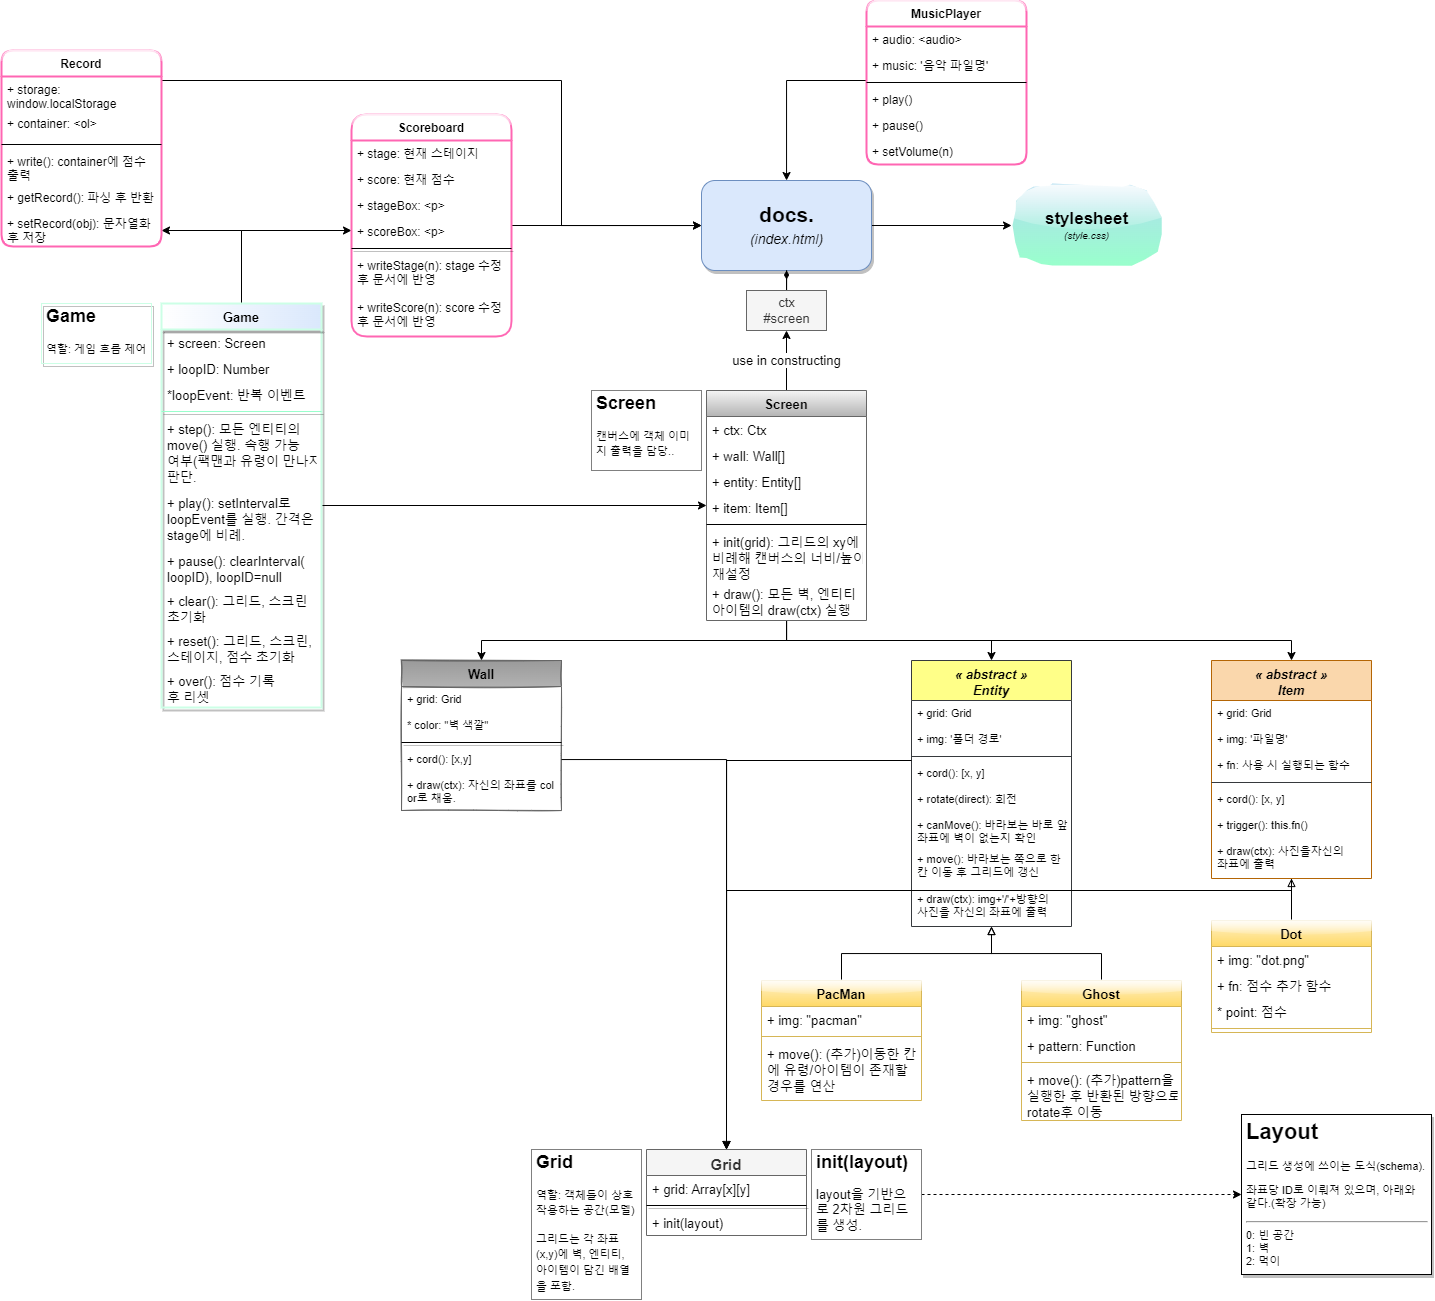
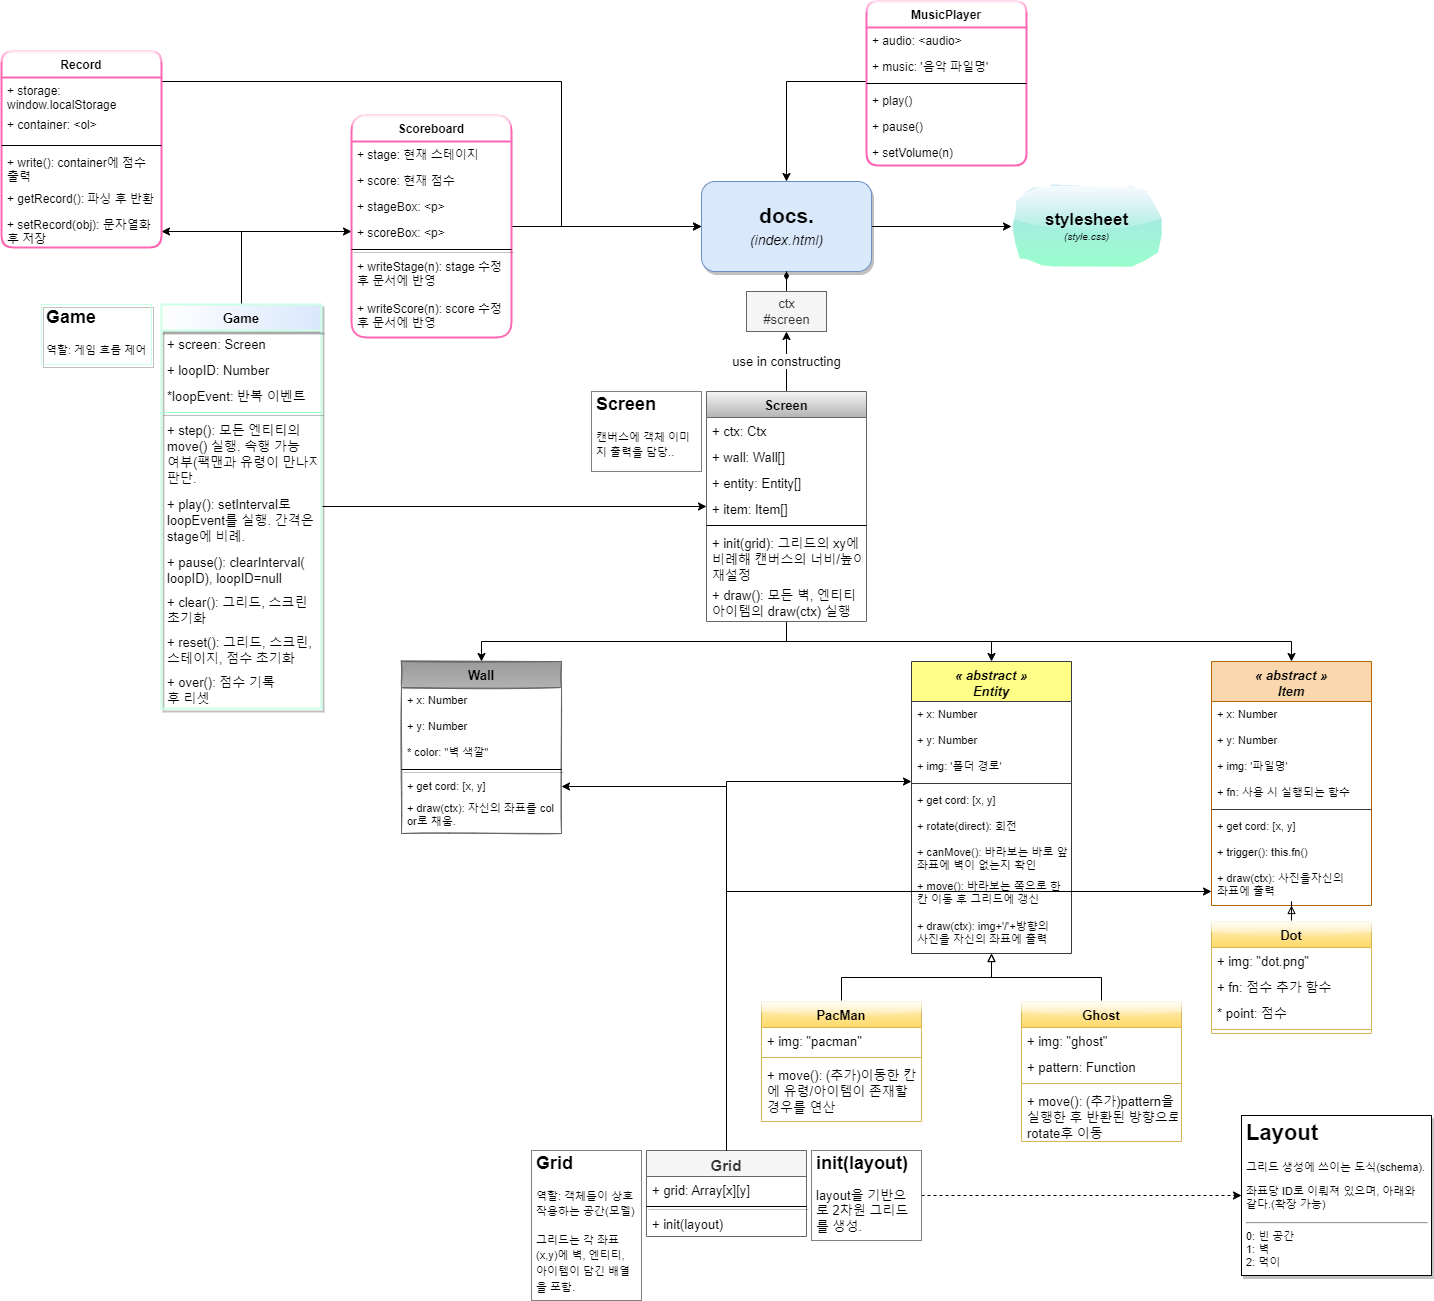
Wall 완성+객제 좌표계 변경(cord->x,y속성)+그리드 참조 관계 역전

diff --git a/src/Screen.js b/src/Screen.js
@@ -1,22 +1,43 @@
 class Screen {
     #ctx;
     wall = [];
-    entity = [];
+    entity = []; //그리드 대신 객체 단위 접근을 위한 1차원 스토리지
     item = [];
+
+    static SCALE = 20; //unit: px
 
     constructor(ctx){
         this.#ctx = ctx;
     }
 
-    getCtx(){
+    get ctx(){
         return this.#ctx;
     }
 
     init(grid){
-        let canvas = this.#ctx.canvas, size = grid.getSize();
-        canvas.width = size[0] * CANVAS_SCALE;
-        canvas.height = size[1] * CANVAS_SCALE;
-        this.#ctx.scale(CANVAS_SCALE, CANVAS_SCALE);
+        //캔버스 크기 조절
+        let canvas = this.#ctx.canvas, size = grid.getSize(), SCALE = Screen.SCALE;
+        canvas.width = size[0] * SCALE;
+        canvas.height = size[1] * SCALE;
+        this.#ctx.scale(SCALE, SCALE);
+
+        //객체 등록
+        let obj;
+        for(let x of grid.grid){
+            for(let obj of x){
+                if(obj instanceof Wall){
+                    this.wall.push(obj);
+                }
+            }
+        }
+    }
+
+    applyWall(wall){
+        if(this.wall.includes(wall)){
+            throw new Error('the wall has already applied on screen');
+        }
+
+        this.wall.push(wall);
     }
 
     draw(){

diff --git a/src/Grid.js b/src/Grid.js
@@ -8,9 +8,21 @@ class Grid {
             throw new TypeError('layout must be a array');
         }
 
+        //...사설로, 카톡봇 시절 습관 때문에 속도 향상을 위해 반복 흐름 제어는 콜백 메서드 대신 직접 제어를 선호하게 되었습니다.
+        //iterator 사용도 그다지...
+        let grid = layout.map(v => v.concat())/* 복사 */, n;
+        for(let x in grid){
+            for(let y in grid[x]){
+                n = grid[x][y];
+                
+                if(n === '1'){
+                    grid[x][y] = new Wall(x, y);
+                }
+            }
+        }
         //벽, 엔티티, 아이템 클래스가 만들어질 경우 각 ID를 통해 요소를 대체(예정)
 
-        this.grid = layout;
+        this.grid = grid;
     }
 
     pick(x, y){

diff --git a/src/constant.js b/src/constant.js
@@ -1,6 +1,6 @@
 let LAYOUT = `
 1,1,1,1,1,1,1,1,1,1,1,1,1,1,1,1,1,1,1
-1,2,2,2,2,2,2,2,2,2,2,2,2,2,2,2,2,2,1
+1,2,2,2,2,2,2,2,2,1,2,2,2,2,2,2,2,2,1
 1,2,1,1,2,1,1,1,2,1,2,1,1,1,2,1,1,2,1
 1,2,2,2,2,2,2,2,2,2,2,2,2,2,2,2,2,2,1
 1,2,1,1,2,1,2,1,1,1,1,1,2,1,2,1,1,2,1
@@ -25,7 +25,7 @@ let LAYOUT = `
 //LAYOUT의 2차원 그리드화(x, y)
 if(true){
     LAYOUT = LAYOUT.trim().split('\n').map(v => v.split(','));
-    let arr = new Array(LAYOUT[0].length).fill(new Array(LAYOUT.length));
+    let arr = new Array(LAYOUT[0].length).fill(new Array(LAYOUT.length).fill(0));
 
     //LAYOUT(y, x) -> arr(x, y)
     for(let x in arr){
@@ -34,11 +34,3 @@ if(true){
 
     LAYOUT = arr;
 }
-
-const ID = [ //레이아웃의 각 숫자가 어떤 것을 가리키는지.
-    //0
-    //1
-    //2
-];
-
-const CANVAS_SCALE = 20; //px

diff --git a/index.html b/index.html
@@ -10,9 +10,10 @@
     <title>PacMan - Testing</title>
 </head>
 <body>
-    <h1 style="text-align:center">Testing...</h1>
+    <h1>Testing...</h1>
     <canvas id="screen"></canvas>
     <script type="text/javascript" src="src/constant.js"></script>
+    <script type="text/javascript" src="src/Wall.js"></script>
     <script type="text/javascript" src="src/Grid.js"></script>
     <script type="text/javascript" src="src/Screen.js"></script>
     <script type="text/javascript" src="src/app.js"></script>

diff --git a/src/Wall.js b/src/Wall.js
@@ -1,0 +1,25 @@
+class Wall {
+    x;
+    y;
+    grid;
+    color;
+
+    static COLOR = '#4169E1';
+
+    constructor(x, y){
+        this.x = x;
+        this.y = y;
+        this.color = Wall.COLOR;
+    }
+
+    get cord(){
+        return [this.x, this.y];
+    }
+
+    draw(ctx){
+        let colorBefore = ctx.fillStyle;
+        ctx.fillStyle = this.color;
+        ctx.fillRect(this.x, this.y, 1, 1);
+        ctx.fillStyle = colorBefore;
+    }
+}

diff --git a/style.css b/style.css
@@ -14,4 +14,5 @@ h1{
 
 #screen {
     background-color: black;
+    margin-bottom: 100px;
 }
